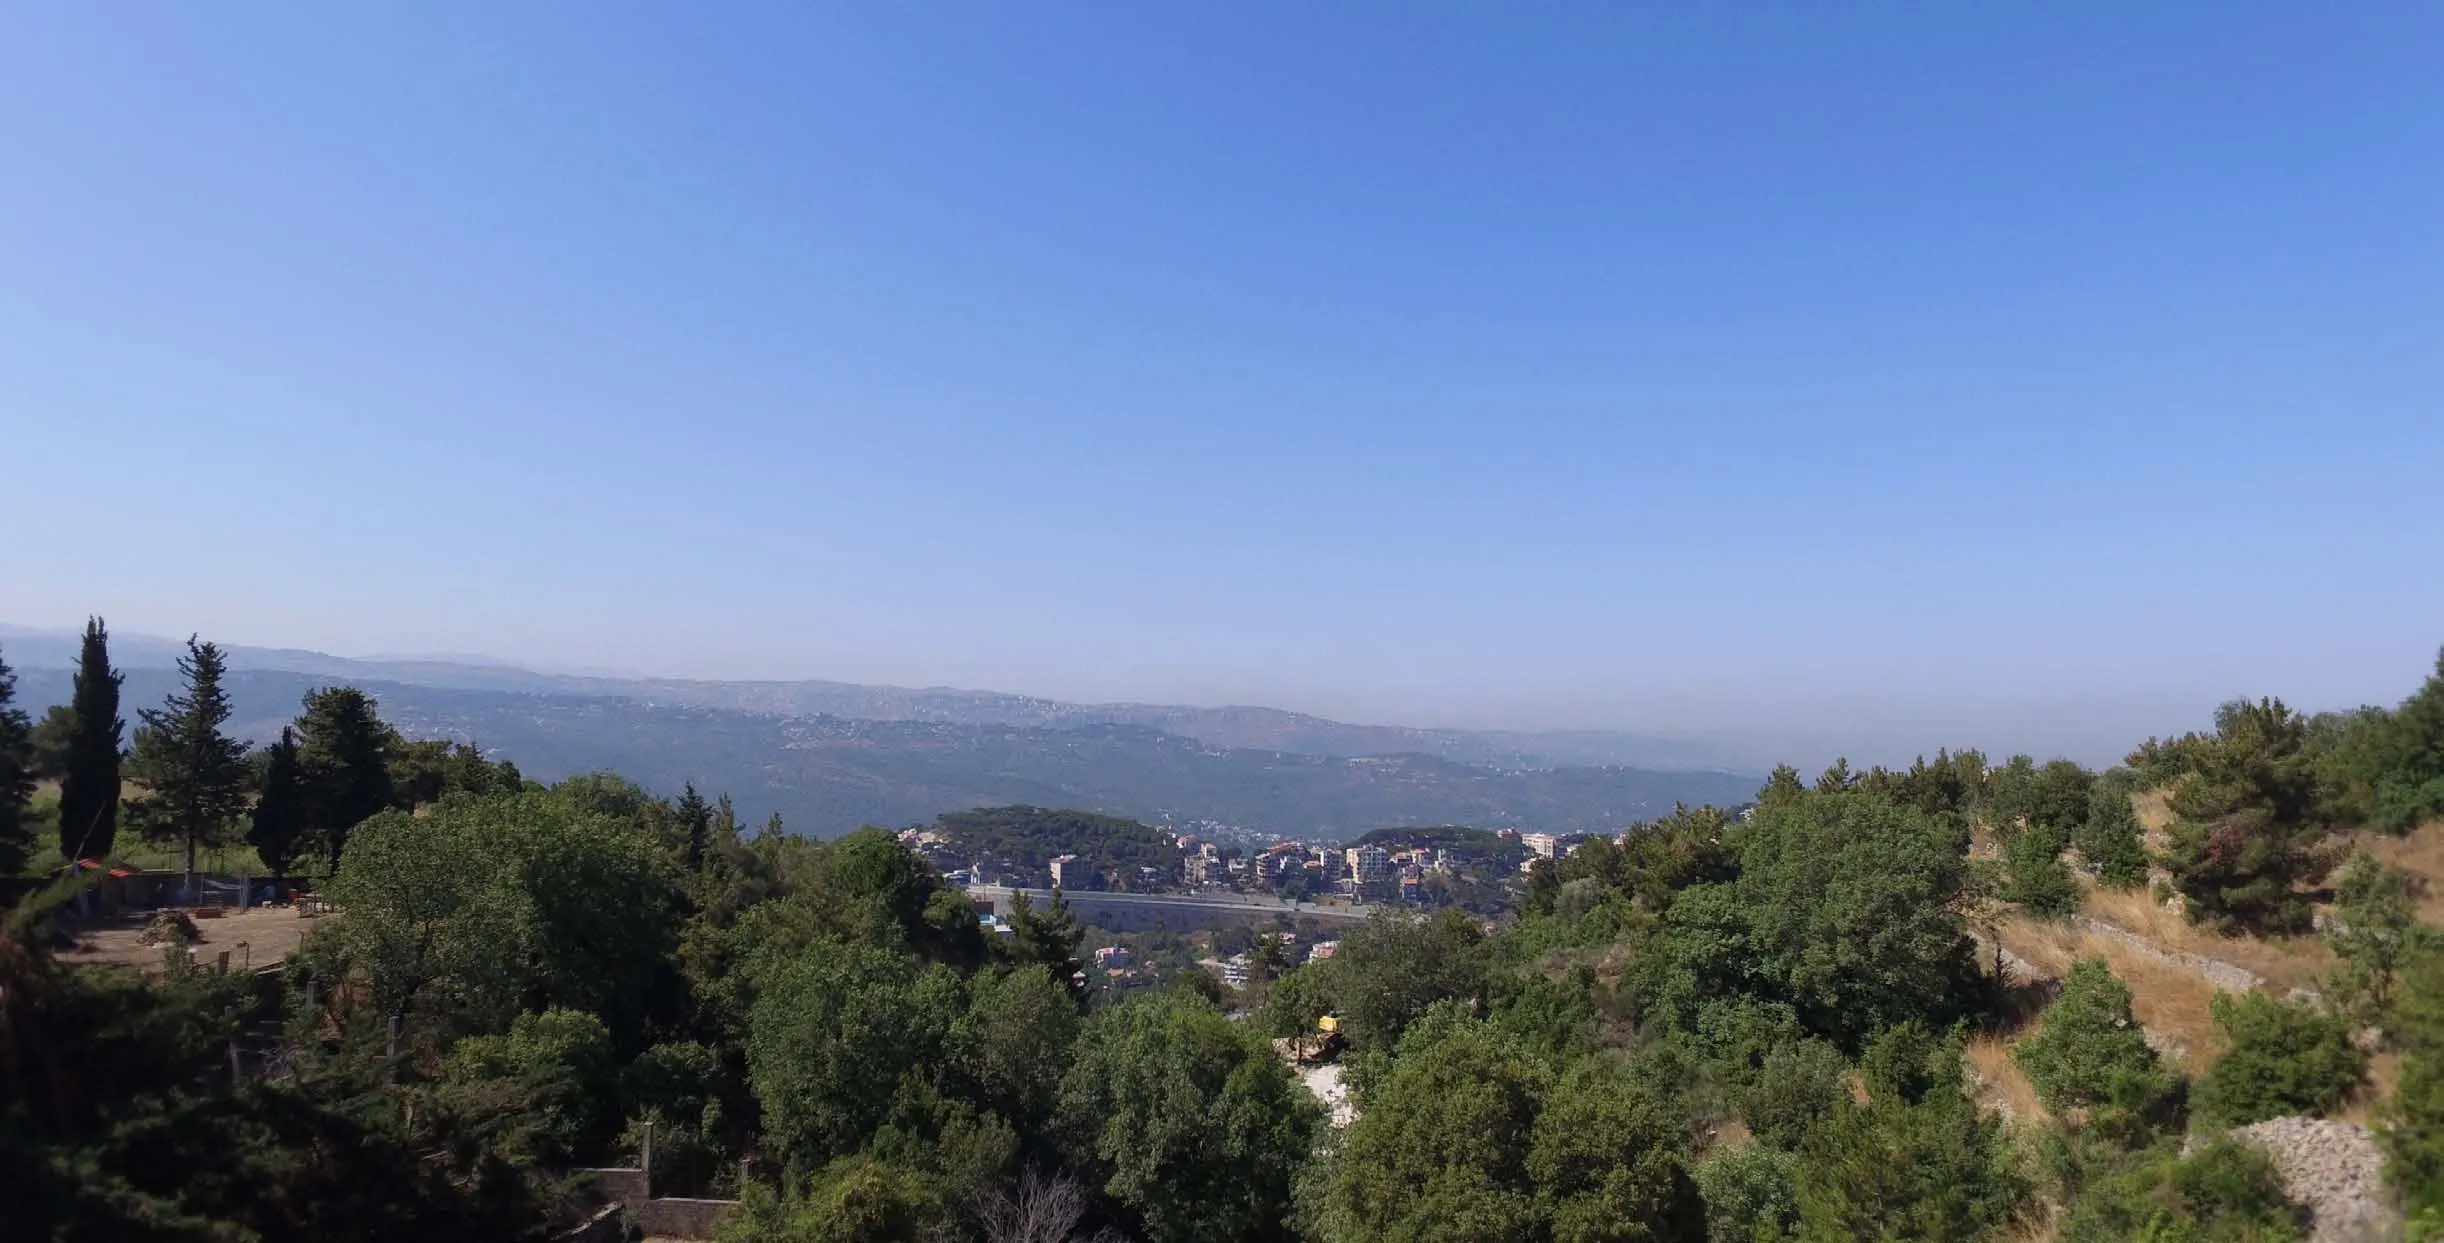
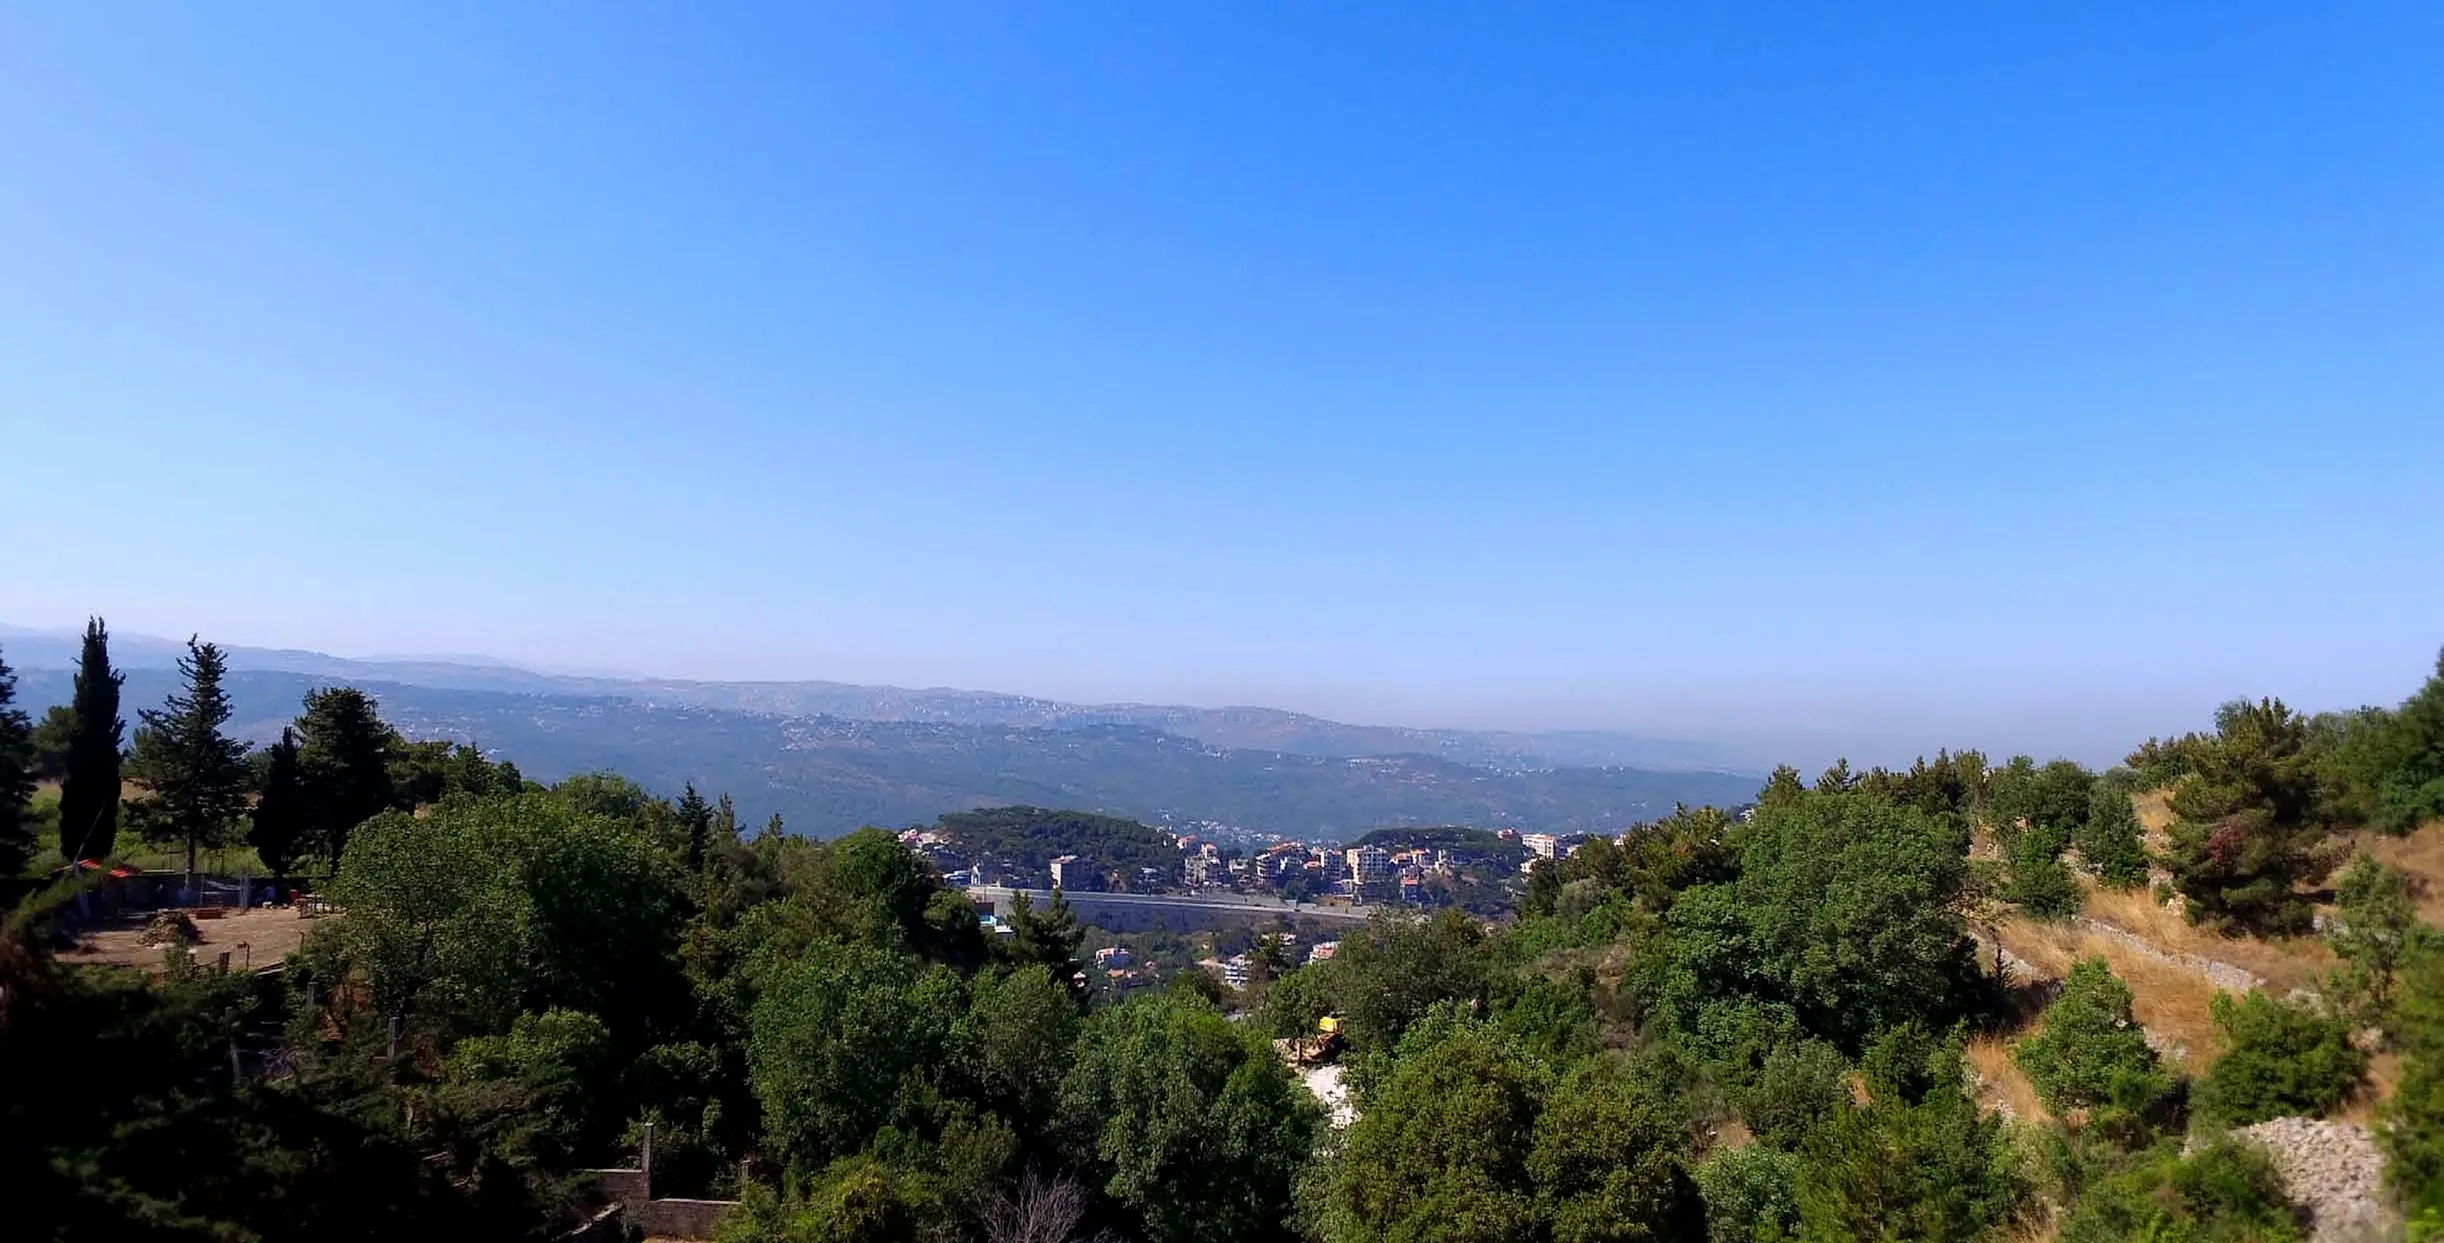
Pull the haze out of the view photograph
The brochure scan was flat and hazy; the section now serves a graded
version — contrast lifted, colour depth restored, edges resharpened
after a lanczos upscale to 3200w — in three responsive sizes. The
source photo's own resolution is still the ceiling; a fresh shot from
the site would beat any amount of grading.

Claude-Session: https://claude.ai/code/session_013YWxHGuSn5tojpMA2gYdkV

diff --git a/src/pages/Project.jsx b/src/pages/Project.jsx
@@ -92,8 +92,8 @@ function TheView() {
     <section ref={root} className="relative">
       <div className="relative h-[92svh] overflow-clip">
         <WarpImage
-          src="/im/view-ridge-2444.webp"
-          srcSet="/im/view-ridge-1280.webp 1280w, /im/view-ridge-2444.webp 2444w"
+          src="/im/view-ridge-3200.webp"
+          srcSet="/im/view-ridge-1280.webp 1280w, /im/view-ridge-2444.webp 2444w, /im/view-ridge-3200.webp 3200w"
           alt="The view from the site — the Metn valley and the mountains beyond, photographed at Daher el Souane"
           className="h-full"
         />
